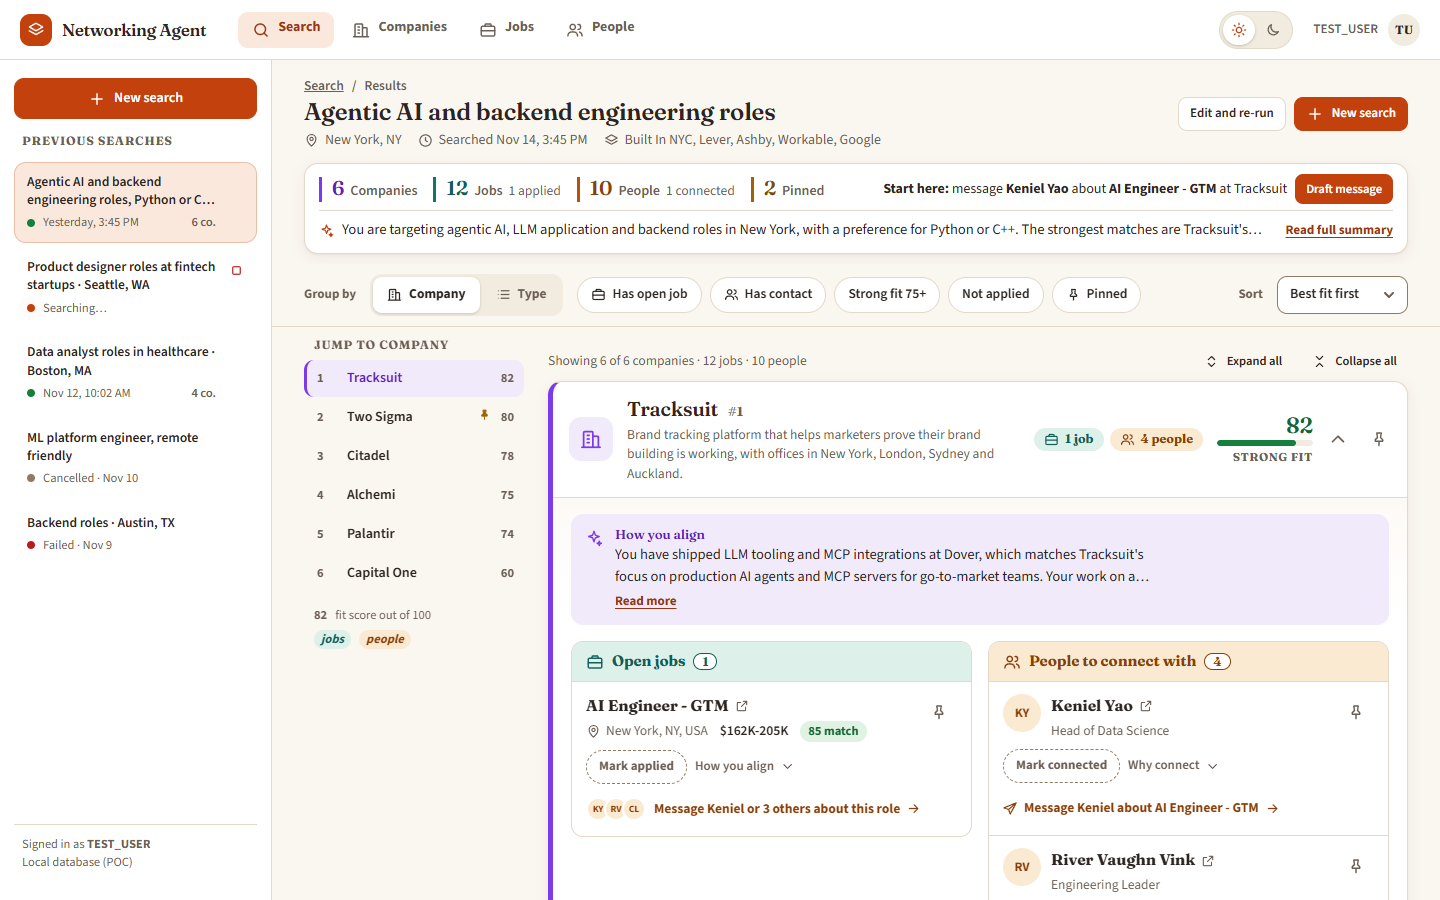
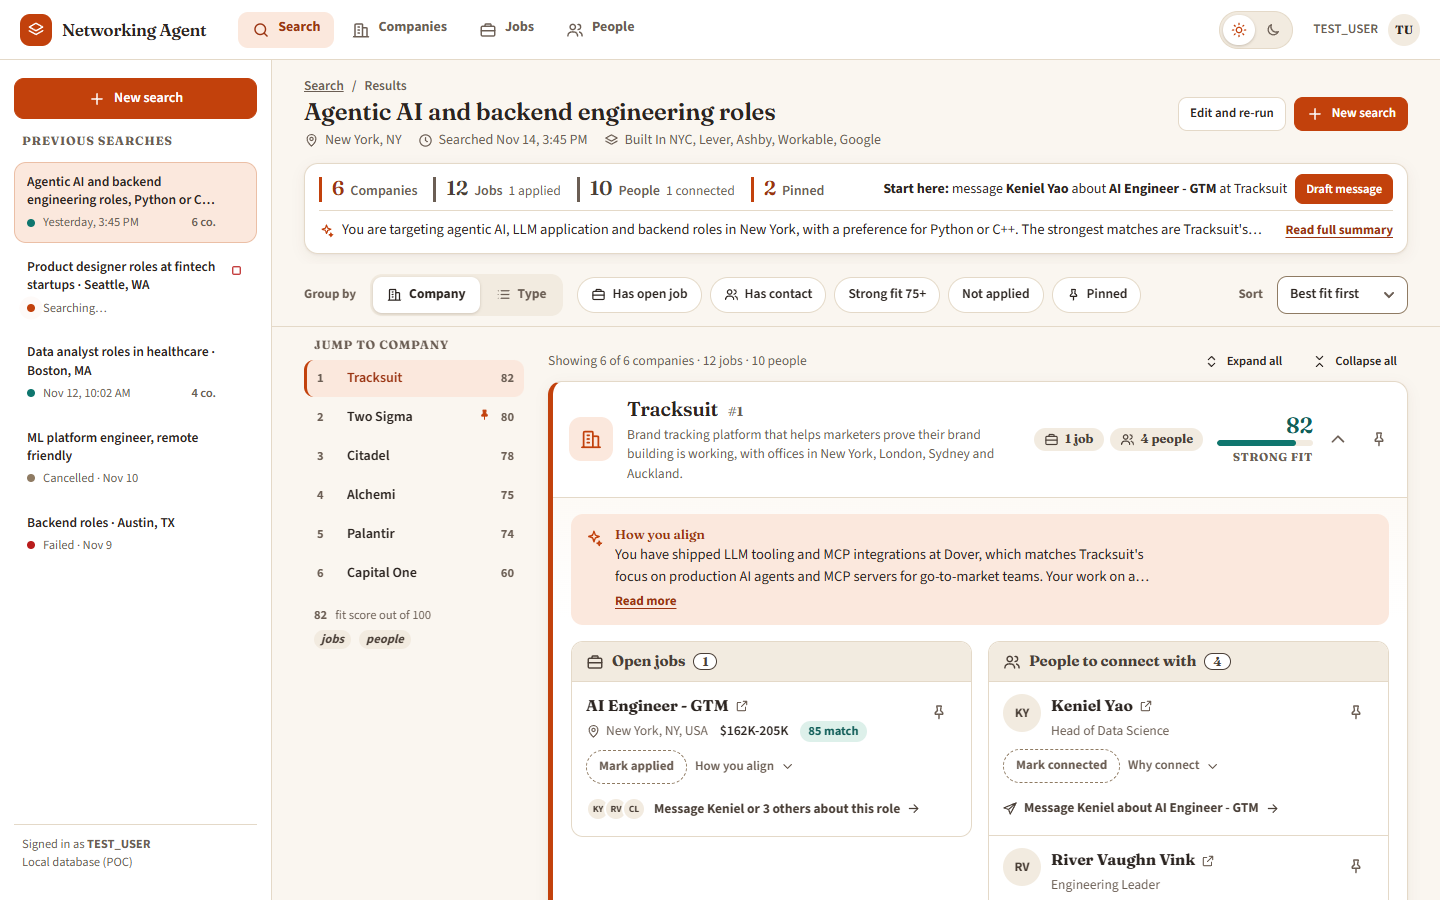
docs: restrain Map·Linen light palette
Cut light mode from eight colour families to warm neutrals, terracotta
(actions, companies, pins) and one teal (applied, connected, strong fit),
with red only for errors. Jobs and people now differ by icon/label rather
than colour. Contrast re-checked (AA), preview regenerated.

diff --git a/docs/ui_drafts_v2/index.html b/docs/ui_drafts_v2/index.html
@@ -101,8 +101,8 @@
       </div>
       <div class="body">
         <h2>4 · Map · Linen</h2>
-        <div class="tag">Company Map layout · Linen palette (light) · black and light-blue dark mode</div>
-        <div class="swatches"><span style="background:#FAF6F0"></span><span style="background:#C2410C"></span><span style="background:#7C3AED"></span><span style="background:#0F766E"></span><span style="background:#B45309"></span></div>
+        <div class="tag">Company Map layout · restrained Linen palette (light) · black and light-blue dark mode</div>
+        <div class="swatches"><span style="background:#FAF6F0"></span><span style="background:#F2EBE0"></span><span style="background:#C2410C"></span><span style="background:#0F766E"></span></div>
         <p>The Company Map results page you liked, in Field Notes' warm colours. The header is tightened so the first company is visible straight away. The connect message still opens in a side drawer.</p>
         <div class="links"><a href="04-map-linen/results.html">Results</a><a href="04-map-linen/search.html">Search</a><a href="04-map-linen/running.html">Running</a><a href="04-map-linen/library.html">Library</a><a href="04-map-linen/README.md">README</a></div>
       </div>

diff --git a/docs/ui_drafts_v2/04-map-linen/theme.css b/docs/ui_drafts_v2/04-map-linen/theme.css
@@ -4,12 +4,13 @@
   --bg:#FAF6F0; --surface:#FFFFFF; --alt:#F2EBE0; --border:#E4D9C8; --input:#8F7B63;
   --text:#2B2420; --text2:#6B5E54;
   --accent:#C2410C; --accent-h:#9A3412; --accent-t:#FBE8DD; --on-accent:#FFFFFF; --accent-dis:#D9936F; --accent-line:#EBBFA6;
-  --co:#7C3AED; --co-d:#5B21B6; --co-t:#F1EAFB;
-  --job:#0F766E; --job-d:#115E59; --job-t:#DDF0EA;
-  --per:#B45309; --per-d:#8A3F08; --per-t:#FBEAD2;
-  --pin:#A16207; --pin-d:#7C4A06; --pin-t:#FAEFC5;
-  --app:#15803D; --app-d:#166534; --app-t:#E0F2E2;
-  --con:#1D4ED8; --con-d:#1E40AF; --con-t:#E3EAFB;
+  /* Restrained light palette: warm neutrals + terracotta (actions, companies, pins) + one teal for positive states. */
+  --co:#C2410C; --co-d:#9A3412; --co-t:#FBE8DD;
+  --job:#6B5E54; --job-d:#4A3F37; --job-t:#F2EBE0;
+  --per:#6B5E54; --per-d:#4A3F37; --per-t:#F2EBE0;
+  --pin:#C2410C; --pin-d:#9A3412; --pin-t:#FBE8DD;
+  --app:#0F766E; --app-d:#115E59; --app-t:#DDF0EA;
+  --con:#0F766E; --con-d:#115E59; --con-t:#DDF0EA;
   --danger:#B91C1C; --danger-t:#FCE8E6; --danger-line:#EDB4AE;
   --inv-bg:#2B2420; --inv-fg:#FAF6F0; --toast-link:#F3B08C;
   --focus:#9A3412; --panel-grad:#FDFAF6; --bar:rgba(250,246,240,.94); --scrim:rgba(43,36,32,.45);

diff --git a/docs/ui_drafts_v2/04-map-linen/README.md b/docs/ui_drafts_v2/04-map-linen/README.md
@@ -12,7 +12,9 @@ Open `results.html` (centrepiece), `search.html`, `running.html`, `library.html`
 | Inactive toggles must pass AA | Chips, segmented buttons and status toggles use text2/text on solid tokens; checked in both themes. |
 
 ## Palette (light / dark)
-bg `#FAF6F0` / `#0A0A0B`; surface `#FFFFFF` / `#141416`; alt `#F2EBE0` / `#1E1F23`; border `#E4D9C8` / `#2E3036`; input outline `#8F7B63` / `#6B7280`; text `#2B2420` / `#F2F4F7`; text2 `#6B5E54` / `#A8B0BD`; accent `#C2410C` / `#7DC4FF` (hover `#9A3412` / `#A8D8FF`, on-accent `#FFFFFF` / `#04121F`); company `#7C3AED` / `#A5B8FF`; job `#0F766E` / `#7DD3FC`; person `#B45309` / `#8BE3F0`; pinned `#A16207` / `#BFE3FF`; applied `#15803D` / `#86E1D5`; connected `#1D4ED8` / `#9CC8FF`; danger `#B91C1C` / `#FCA5A5` (dark mode's only warm colour, kept for failed/delete states). Each entity also has `-d` (text on tint) and `-t` (tint) steps.
+Light mode is deliberately restrained (owner feedback: too many colours): warm neutrals, terracotta for actions/companies/pins, one teal for positive states (applied, connected, strong fit), and red only for errors. Jobs and people are told apart by icon and label, not colour.
+
+bg `#FAF6F0` / `#0A0A0B`; surface `#FFFFFF` / `#141416`; alt `#F2EBE0` / `#1E1F23`; border `#E4D9C8` / `#2E3036`; input outline `#8F7B63` / `#6B7280`; text `#2B2420` / `#F2F4F7`; text2 `#6B5E54` / `#A8B0BD`; accent `#C2410C` / `#7DC4FF` (hover `#9A3412` / `#A8D8FF`, on-accent `#FFFFFF` / `#04121F`); company `#C2410C` / `#A5B8FF`; job `#6B5E54` / `#7DD3FC`; person `#6B5E54` / `#8BE3F0`; pinned `#C2410C` / `#BFE3FF`; applied `#0F766E` / `#86E1D5`; connected `#0F766E` / `#9CC8FF`; danger `#B91C1C` / `#FCA5A5` (dark mode's only warm colour, kept for failed/delete states). Each entity also has `-d` (text on tint) and `-t` (tint) steps.
 Accent vs person: both warm, so person is always paired with a round avatar or users icon and an amber tint; accent is used for actions and links only.
 
 ## Type scale
